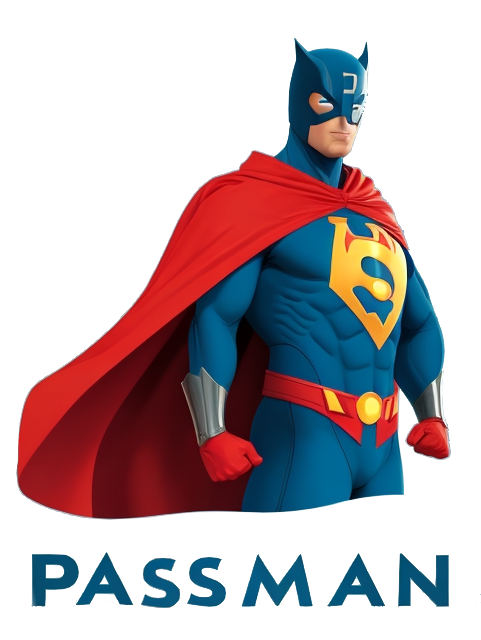
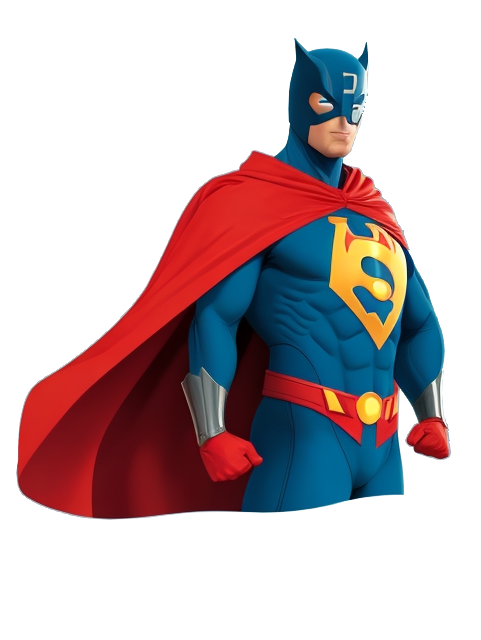
💄 UX/UI Register and login
wip on login

Changed region(s): [[0.0624, 0.8438, 0.4678, 0.9688], [0.6861, 0.8438, 0.9356, 0.9688], [0.499, 0.875, 0.6549, 0.9688]]

diff --git a/frontend/src/RegisterPage.tsx b/frontend/src/RegisterPage.tsx
@@ -1,36 +1,33 @@
 import React, { useState} from 'react';
 import {Register} from "../wailsjs/go/main/App";
+import PasswordInput from "./components/PasswordForm";
+import FormInput from "./components/Form";
+import {useNavigate} from "react-router-dom";
+import {toast} from "react-toastify";
+import FactsCards from "./components/FactsCards";
 
 import Container from 'react-bootstrap/Container';
 import Row from 'react-bootstrap/Row';
 import Col from 'react-bootstrap/Col';
 import {Button, Image} from "react-bootstrap";
-import PasswordInput from "./components/PasswordForm";
-import FormInput from "./components/Form";
-import {useNavigate} from "react-router-dom";
-import 'bootstrap/dist/css/bootstrap.min.css';
-import {toast} from "react-toastify";
-import 'react-toastify/dist/ReactToastify.css';
 import Form from "react-bootstrap/Form";
-import FactsCards from "./components/FactsCards";
+
 import PassManComics from "./assets/images/PassManComics.png";
 import passwordTipsData from './assets/const/facts.json';
+import 'bootstrap/dist/css/bootstrap.min.css';
+import 'react-toastify/dist/ReactToastify.css';
 
 type Facts = {
     name: string;
     description: string;
 };
 
-type FactsCardsProps = {
-    facts: Facts[];
-};
-
 function RegisterPage() {
     const [name, setName] = useState('');
     const [password, setPassword] = useState('');
     const [passwordCheck, setPasswordCheck] = useState('');
+    const [waitProcessing, setWaitProcessing] = useState(false);
     const navigate = useNavigate();
-
 
     const passwordTips: Facts[] = passwordTipsData.password_security_tips.map((tip) => ({
         name: tip.title,
@@ -40,12 +37,17 @@ function RegisterPage() {
     async function register() {
 
         if (password === passwordCheck) {
-            let res = await Register(name, password)
-            if (res == "false") {
-                toast.error("Registration failed")
-            } else if (res == "true") {
-                toast.success("Registration success")
-                navigate('/');
+            if (!waitProcessing) {
+                setWaitProcessing(true)
+                let res = await Register(name, password)
+                if (res == "false") {
+                    setWaitProcessing(false)
+                    toast.error("Registration failed")
+                } else if (res == "true") {
+                    setWaitProcessing(false)
+                    toast.success("Registration success")
+                    navigate('/');
+                }
             }
         } else {
             toast.error("Passwords don't match")
@@ -68,14 +70,12 @@ function RegisterPage() {
                             display: 'flex',
                             flexDirection: 'column',
                             justifyContent: 'center',
-                            backgroundColor: 'rgb(29, 37, 53)',
-                            height: '100vh',
+                            backgroundColor: 'rgb(0, 90, 146)',
+                            height: '90vh',
                             borderRadius: '10px'
                         }}>
                             <div style={{margin:"auto"}}>
-
                                 <h3 style={{color: 'white', marginBottom: "10%"}}>Your info here 📝</h3>
-
                                 <FormInput title={"Login"} onUpdateInput={setName} placeHolder={"Login"}></FormInput>
                                 <PasswordInput onUpdatePassword={setPassword} placeholder={"Password"}></PasswordInput>
                                 <Form.Text id="passwordRequirements" style={{color: 'white'}}>
@@ -85,7 +85,7 @@ function RegisterPage() {
                                         <li>Contain at least 1 special character</li>
                                     </ul>
                                 </Form.Text>
-                                <div style={{marginTop: "20px"}}>
+                                <div>
                                     <PasswordInput onUpdatePassword={setPasswordCheck}
                                                    placeholder={"Retype it, just in case"}></PasswordInput>
                                 </div>

diff --git a/frontend/src/Login.tsx b/frontend/src/Login.tsx
@@ -1,4 +1,4 @@
-import {useState} from 'react';
+import React, {useState} from 'react';
 import {Login} from "../wailsjs/go/main/App";
 import PassMan from './assets/images/PassMan.png'
 import Container from 'react-bootstrap/Container';
@@ -12,6 +12,7 @@ import {useNavigate} from "react-router-dom";
 import 'bootstrap/dist/css/bootstrap.min.css';
 import 'react-toastify/dist/ReactToastify.css';
 import {toast} from "react-toastify";
+import Form from "react-bootstrap/Form";
 
 function LoginPage() {
     const [name, setName] = useState('');
@@ -32,15 +33,21 @@ function LoginPage() {
 
     return (
         <>
-            <div style={{backgroundColor: 'rgb(29, 37, 53)', minHeight: '100vh'}}>
+            <div style={{backgroundColor: 'rgb(248, 249, 250)', minHeight: '100vh'}}>
                 <Container>
                     <Row>
-                        <Col sm={5} style={{display: "flex", alignItems: "center", justifyContent: "center"}}>
-                            <Image src={PassMan} width={"300px"}></Image>
-                        </Col>
-                        <Col sm={5}>
-                            <h1 style={{color: 'white'}}> Login here</h1>
-                            <div style={{margin: 'auto', marginTop: '45%'}}>
+                        <Col style={{
+                            flexDirection: 'column',
+                            justifyContent: 'right',
+                            backgroundColor: 'rgb(0, 90, 146)',
+                            height: '90vh',
+                            marginTop: '20px',
+                            maxWidth: "60%",
+                            borderRadius: '10px'}}>
+                                <Form.Text id="passwordHelpBlock" style={{ color: 'white', fontSize:"30px" }}>
+                                    Login right here to access your passwords 😎
+                                </Form.Text>
+                            <div style={{margin: 'auto', marginTop: '30%', maxWidth: "80%"}}>
                                 <FormInput title={"Login"} onUpdateInput={setName} placeHolder={"Login"}></FormInput>
                                 <PasswordInput onUpdatePassword={setPassword} placeholder={"Password"}></PasswordInput>
                             </div>
@@ -55,8 +62,6 @@ function LoginPage() {
                                 <Button style={{margin: 'auto'}} onClick={redirectToRegister}
                                         variant="secondary">Register</Button>
                             </div>
-                        </Col>
-                        <Col sm={2}>
                         </Col>
                     </Row>
                 </Container>

diff --git a/README.md b/README.md
@@ -18,5 +18,6 @@ But I'm not done, I'll create other to develop my skills, and to fill my needs :
 ## Building
 
 To build a redistributable, production mode package, use `wails build`.
+https://wails.io/docs/next/reference/cli#platforms
 
 To build a windows application : `wails build -platform windows/amd64 -nsis`
